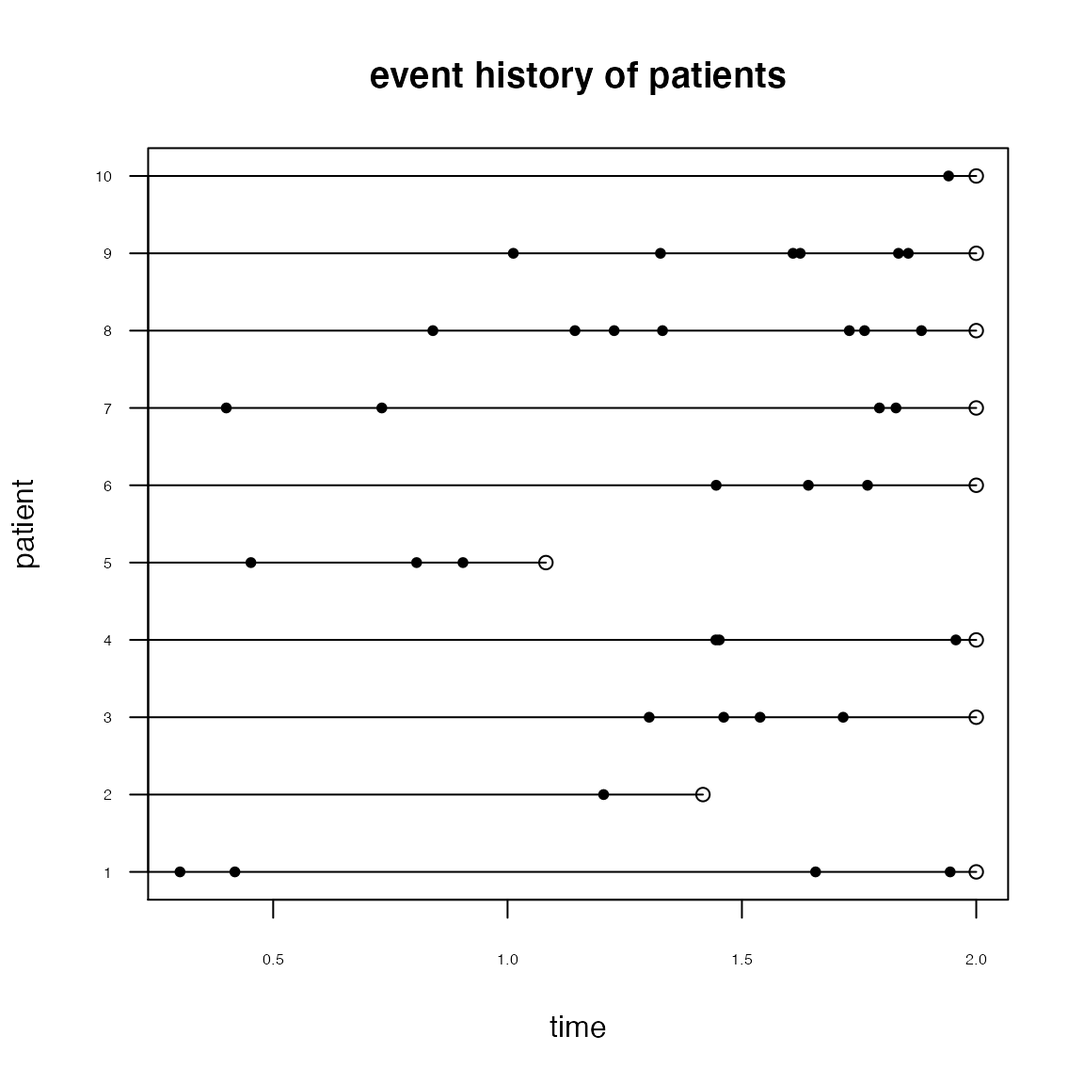
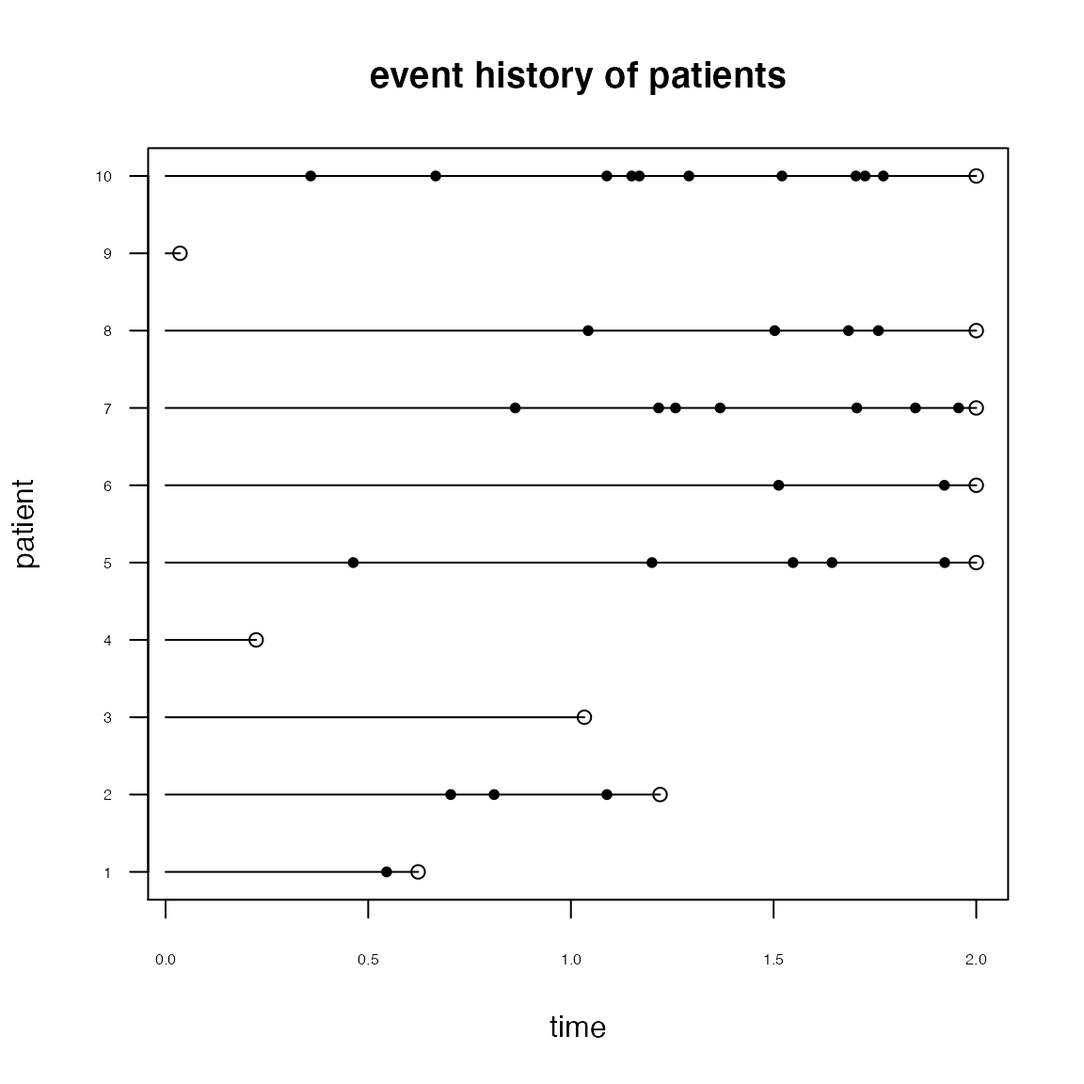
Built site for simrec: 1.0.0@5e44895

diff --git a/articles/simrec-vignette.html b/articles/simrec-vignette.html
@@ -233,19 +233,19 @@
                   <span class="va">dist.z</span>, <span class="va">par.z</span>, <span class="va">dist.rec</span>, <span class="va">par.rec</span>, <span class="va">pfree</span>, <span class="va">dfree</span><span class="op">)</span>
 <span class="fu"><a href="https://rdrr.io/r/base/print.html">print</a></span><span class="op">(</span><span class="va">simdata</span><span class="op">[</span><span class="fl">1</span><span class="op">:</span><span class="fl">10</span>,<span class="op">]</span><span class="op">)</span>
 <span class="fu">DT</span><span class="fu">::</span><span class="fu"><a href="https://rdrr.io/pkg/DT/man/datatable.html">datatable</a></span><span class="op">(</span><span class="va">simdata</span><span class="op">)</span></code></pre></div>
-<pre><code>##    id x.V1        x.V2         z     start      stop status fu
-## 1   1    0  0.74842285 0.5863817 0.0000000 0.8828565      1  2
-## 2   1    0  0.74842285 0.5863817 0.9650482 1.3613327      1  2
-## 3   1    0  0.74842285 0.5863817 1.4435245 2.0000000      0  2
-## 4   2    1 -0.04384992 0.8634348 0.0000000 1.2985454      1  2
-## 5   2    1 -0.04384992 0.8634348 1.3807372 1.4275642      1  2
-## 6   2    1 -0.04384992 0.8634348 1.5097560 1.7161208      1  2
-## 7   2    1 -0.04384992 0.8634348 1.7983126 2.0000000      0  2
-## 8   3    1  0.51347909 0.7954771 0.0000000 0.4849580      1  2
-## 9   3    1  0.51347909 0.7954771 0.5671498 1.5245771      1  2
-## 10  3    1  0.51347909 0.7954771 1.5245771 1.7126943      1  2</code></pre>
-<div id="htmlwidget-0798048e3afd38820c92" style="width:100%;height:auto;" class="datatables html-widget"></div>
-<script type="application/json" data-for="htmlwidget-0798048e3afd38820c92">{"x":{"filter":"none","data":[["1","2","3","4","5","6","7","8","9","10","11","12","13","15","16","17","18","19","20","21","22","23","24","25","26","27","28","29","30","31","32","33","34","36","37","38","39","40","41","42","43","44"],[1,1,1,2,2,2,2,3,3,3,3,4,4,5,5,5,5,5,5,5,6,6,7,7,7,7,7,8,8,8,8,8,8,9,9,9,9,9,9,10,10,10],[0,0,0,1,1,1,1,1,1,1,1,0,0,1,1,1,1,1,1,1,1,1,1,1,1,1,1,0,0,0,0,0,0,0,0,0,0,0,0,0,0,0],[0.748422845364538,0.748422845364538,0.748422845364538,-0.0438499182516304,-0.0438499182516304,-0.0438499182516304,-0.0438499182516304,0.513479090585374,0.513479090585374,0.513479090585374,0.513479090585374,-2.01222294312478,-2.01222294312478,0.278823336366371,0.278823336366371,0.278823336366371,0.278823336366371,0.278823336366371,0.278823336366371,0.278823336366371,-2.89230406049168,-2.89230406049168,0.820272813130286,0.820272813130286,0.820272813130286,0.820272813130286,0.820272813130286,-0.107051595138831,-0.107051595138831,-0.107051595138831,-0.107051595138831,-0.107051595138831,-0.107051595138831,0.816287521554371,0.816287521554371,0.816287521554371,0.816287521554371,0.816287521554371,0.816287521554371,0.962011556940449,0.962011556940449,0.962011556940449],[0.586381735099886,0.586381735099886,0.586381735099886,0.863434781475425,0.863434781475425,0.863434781475425,0.863434781475425,0.795477087077362,0.795477087077362,0.795477087077362,0.795477087077362,0.705356700959472,0.705356700959472,0.818148383232865,0.818148383232865,0.818148383232865,0.818148383232865,0.818148383232865,0.818148383232865,0.818148383232865,1.47252465963425,1.47252465963425,0.641657587457564,0.641657587457564,0.641657587457564,0.641657587457564,0.641657587457564,1.7902514791294,1.7902514791294,1.7902514791294,1.7902514791294,1.7902514791294,1.7902514791294,1.06465953497814,1.06465953497814,1.06465953497814,1.06465953497814,1.06465953497814,1.06465953497814,0.742863274269857,0.742863274269857,0.742863274269857],[0,0.965048248560268,1.44352452494387,0,1.3807371955991,1.50975599921375,1.79831258214225,0,0.567149769092909,1.524577110273,1.71269430789185,0,1.80425370669066,0,0.623721185924269,0.946716737220665,1.41498422919811,1.51402784124812,1.7845287388363,1.88418645000797,0,1.98765797411435,0,0.741885171181253,1.231263117613,1.36141722352325,1.86522065575899,0,0.0883149323957386,0.844631576642324,1.25253972272403,1.29578393081974,1.7582769708412,0,0.5269988301126,0.745251799488734,1.73555869223245,1.78806320551913,1.89876479554919,0,0.388267822494712,0.614225154632202],[0.88285646773835,1.36133274412195,2,1.29854541477719,1.42756421839183,1.71612080132033,2,0.484957988270991,1.524577110273,1.71269430789185,2,1.72206192586875,1.99368387981719,0.623721185924269,0.946716737220665,1.41498422919811,1.4318360604262,1.7845287388363,1.88418645000797,2,1.90546619329243,2,0.659693390359335,1.231263117613,1.36141722352325,1.78302887493707,2,0.0883149323957386,0.762439795820406,1.25253972272403,1.29578393081974,1.67608519001929,1.95193246752682,0.444807049290682,0.745251799488734,1.73555869223245,1.78806320551913,1.81657301472727,2,0.388267822494712,0.532033373810284,1.92654158387075],[1,1,0,1,1,1,0,1,1,1,0,1,1,1,1,1,1,1,1,0,1,0,1,1,1,1,0,1,1,1,1,1,1,1,1,1,1,1,0,1,1,1],[2,2,2,2,2,2,2,2,2,2,2,2,2,2,2,2,2,2,2,2,2,2,2,2,2,2,2,2,2,2,2,2,2,2,2,2,2,2,2,2,2,2]],"container":"<table class=\"display\">\n  <thead>\n    <tr>\n      <th> <\/th>\n      <th>id<\/th>\n      <th>x.V1<\/th>\n      <th>x.V2<\/th>\n      <th>z<\/th>\n      <th>start<\/th>\n      <th>stop<\/th>\n      <th>status<\/th>\n      <th>fu<\/th>\n    <\/tr>\n  <\/thead>\n<\/table>","options":{"columnDefs":[{"className":"dt-right","targets":[1,2,3,4,5,6,7,8]},{"orderable":false,"targets":0}],"order":[],"autoWidth":false,"orderClasses":false}},"evals":[],"jsHooks":[]}</script>
+<pre><code>##    id x.V1       x.V2         z     start      stop status       fu
+## 1   1    1  0.8511818 0.8547160 0.0000000 0.1579638      1 1.320757
+## 2   1    1  0.8511818 0.8547160 0.1579638 1.3207570      0 1.320757
+## 3   2    0 -2.2047470 1.6750799 0.0000000 1.0162442      1 2.000000
+## 4   2    0 -2.2047470 1.6750799 1.0984360 1.2847479      1 2.000000
+## 5   2    0 -2.2047470 1.6750799 1.3669396 1.5081206      1 2.000000
+## 6   2    0 -2.2047470 1.6750799 1.5081206 1.5222892      1 2.000000
+## 7   2    0 -2.2047470 1.6750799 1.5222892 1.5731542      1 2.000000
+## 8   2    0 -2.2047470 1.6750799 1.5731542 2.0000000      0 2.000000
+## 9   3    1  1.9747318 0.8257877 0.0000000 0.3669272      1 2.000000
+## 10  3    1  1.9747318 0.8257877 0.3669272 0.5140114      1 2.000000</code></pre>
+<div id="htmlwidget-eaa7853907c06c50fe55" style="width:100%;height:auto;" class="datatables html-widget"></div>
+<script type="application/json" data-for="htmlwidget-eaa7853907c06c50fe55">{"x":{"filter":"none","data":[["1","2","3","4","5","6","7","8","9","10","11","12","13","14","15","16","17","18","19","20","21","22","23","24","25","26","27","28","29","30","31","32","33","35","36","37","38","39","40","41","42","43","44","45","46","47","48","49","50","51","52","53","54","55","56","57","58","59","60","61"],[1,1,2,2,2,2,2,2,3,3,3,3,3,3,3,3,3,3,4,4,4,5,5,5,5,5,6,6,6,6,6,6,6,7,7,8,8,8,8,8,8,8,8,8,8,9,9,9,9,9,9,10,10,10,10,10,10,10,10,10],[1,1,0,0,0,0,0,0,1,1,1,1,1,1,1,1,1,1,0,0,0,0,0,0,0,0,0,0,0,0,0,0,0,0,0,1,1,1,1,1,1,1,1,1,1,0,0,0,0,0,0,0,0,0,0,0,0,0,0,0],[0.851181772620767,0.851181772620767,-2.20474697955854,-2.20474697955854,-2.20474697955854,-2.20474697955854,-2.20474697955854,-2.20474697955854,1.97473176134755,1.97473176134755,1.97473176134755,1.97473176134755,1.97473176134755,1.97473176134755,1.97473176134755,1.97473176134755,1.97473176134755,1.97473176134755,1.31237168481631,1.31237168481631,1.31237168481631,2.28457465921573,2.28457465921573,2.28457465921573,2.28457465921573,2.28457465921573,1.03329255983817,1.03329255983817,1.03329255983817,1.03329255983817,1.03329255983817,1.03329255983817,1.03329255983817,-0.442716303545345,-0.442716303545345,-1.87566169719697,-1.87566169719697,-1.87566169719697,-1.87566169719697,-1.87566169719697,-1.87566169719697,-1.87566169719697,-1.87566169719697,-1.87566169719697,-1.87566169719697,-0.340451602250275,-0.340451602250275,-0.340451602250275,-0.340451602250275,-0.340451602250275,-0.340451602250275,-0.476374090701937,-0.476374090701937,-0.476374090701937,-0.476374090701937,-0.476374090701937,-0.476374090701937,-0.476374090701937,-0.476374090701937,-0.476374090701937],[0.85471602331093,0.85471602331093,1.67507989864245,1.67507989864245,1.67507989864245,1.67507989864245,1.67507989864245,1.67507989864245,0.82578765733876,0.82578765733876,0.82578765733876,0.82578765733876,0.82578765733876,0.82578765733876,0.82578765733876,0.82578765733876,0.82578765733876,0.82578765733876,0.400950499250903,0.400950499250903,0.400950499250903,0.625616100511938,0.625616100511938,0.625616100511938,0.625616100511938,0.625616100511938,1.59027074067922,1.59027074067922,1.59027074067922,1.59027074067922,1.59027074067922,1.59027074067922,1.59027074067922,0.668787273699187,0.668787273699187,0.885449250506474,0.885449250506474,0.885449250506474,0.885449250506474,0.885449250506474,0.885449250506474,0.885449250506474,0.885449250506474,0.885449250506474,0.885449250506474,1.12489635815117,1.12489635815117,1.12489635815117,1.12489635815117,1.12489635815117,1.12489635815117,1.92654255869311,1.92654255869311,1.92654255869311,1.92654255869311,1.92654255869311,1.92654255869311,1.92654255869311,1.92654255869311,1.92654255869311],[0,0.157963776785269,0,1.09843596343986,1.36693963187766,1.50812056794535,1.52228921490105,1.57315422372866,0,0.366927247395232,0.596203167238677,0.762069537991531,1.09215128214783,1.43689976212693,1.56117684739283,1.56882434490839,1.69799536735489,1.83597822378726,0,0.705079041723032,1.45208204521861,0,1.21398149171373,1.37912063563003,1.73660030241888,1.80572677752705,0,0.974667502297942,1.3375612229915,1.45532714436083,1.54951491656822,1.77493421162108,1.77508444061788,0,1.25343016523665,0,0.615495831241205,0.766159744840325,0.878102383638971,0.997728073148899,1.09346965755036,1.63909470606363,1.7389477351329,1.85333612276303,1.96526222266209,0,0.536955841561227,1.377417757015,1.46313562661049,1.6722352791958,1.90306743485239,0,0.213152811754293,0.348383545126121,0.482816387949634,0.576025979537138,1.00569832057564,1.11572385941272,1.699565848588,1.9296538097149],[0.157963776785269,1.32075695414096,1.01624418261795,1.28474785105574,1.50812056794535,1.52228921490105,1.57315422372866,2,0.366927247395232,0.514011386416759,0.679877757169614,1.09215128214783,1.35470798130502,1.56117684739283,1.56882434490839,1.61580358653297,1.83597822378726,2,0.705079041723032,1.3698902643967,2,1.13178971089182,1.37912063563003,1.65440852159696,1.80572677752705,2,0.892475721476024,1.3375612229915,1.45532714436083,1.4673231357463,1.77493421162108,1.77508444061788,1.9213800569264,1.17123838441473,2,0.615495831241205,0.683967964018407,0.795910602817053,0.997728073148899,1.09346965755036,1.55690292524172,1.7389477351329,1.85333612276303,1.96526222266209,2,0.45476406073931,1.29522597619308,1.46313562661049,1.59004349837388,1.90306743485239,2,0.213152811754293,0.266191764304203,0.400624607127716,0.576025979537138,0.923506539753718,1.0335320785908,1.699565848588,1.9296538097149,2],[1,0,1,1,1,1,1,0,1,1,1,1,1,1,1,1,1,0,1,1,0,1,1,1,1,0,1,1,1,1,1,1,1,1,0,1,1,1,1,1,1,1,1,1,0,1,1,1,1,1,0,1,1,1,1,1,1,1,1,0],[1.32075695414096,1.32075695414096,2,2,2,2,2,2,2,2,2,2,2,2,2,2,2,2,2,2,2,2,2,2,2,2,2,2,2,2,2,2,2,2,2,2,2,2,2,2,2,2,2,2,2,2,2,2,2,2,2,2,2,2,2,2,2,2,2,2]],"container":"<table class=\"display\">\n  <thead>\n    <tr>\n      <th> <\/th>\n      <th>id<\/th>\n      <th>x.V1<\/th>\n      <th>x.V2<\/th>\n      <th>z<\/th>\n      <th>start<\/th>\n      <th>stop<\/th>\n      <th>status<\/th>\n      <th>fu<\/th>\n    <\/tr>\n  <\/thead>\n<\/table>","options":{"columnDefs":[{"className":"dt-right","targets":[1,2,3,4,5,6,7,8]},{"orderable":false,"targets":0}],"order":[],"autoWidth":false,"orderClasses":false}},"evals":[],"jsHooks":[]}</script>
 </div>
 </div>
 <div id="the-simreccomp-function" class="section level1">
@@ -387,32 +387,32 @@
 <span class="fu"><a href="https://rdrr.io/r/base/print.html">print</a></span><span class="op">(</span><span class="va">simdata2</span><span class="op">[</span><span class="fl">1</span><span class="op">:</span><span class="fl">10</span>, <span class="op">]</span><span class="op">)</span>
 <span class="fu">DT</span><span class="fu">::</span><span class="fu"><a href="https://rdrr.io/pkg/DT/man/datatable.html">datatable</a></span><span class="op">(</span><span class="va">simdata1</span><span class="op">)</span>
 <span class="fu">DT</span><span class="fu">::</span><span class="fu"><a href="https://rdrr.io/pkg/DT/man/datatable.html">datatable</a></span><span class="op">(</span><span class="va">simdata2</span><span class="op">)</span></code></pre></div>
-<pre><code>##    id x.V1       x.V2        zr        zc     start      stop status       fu
-## 1   1    1 -1.6676921 0.6920026 0.8318670 0.0000000 0.1132795      1 1.157896
-## 2   1    1 -1.6676921 0.6920026 0.8318670 0.1132795 0.5397039      1 1.157896
-## 3   1    1 -1.6676921 0.6920026 0.8318670 0.6218956 1.1578958      2 1.157896
-## 6   2    1 -0.3845407 0.9199459 0.9591381 0.0000000 0.4164970      2 0.416497
-## 11  3    0  0.2579137 0.9138277 0.9559434 0.0000000 0.8034349      1 1.980067
-## 12  3    0  0.2579137 0.9138277 0.9559434 0.8856267 1.0015509      1 1.980067
-## 13  3    0  0.2579137 0.9138277 0.9559434 1.0015509 1.5072548      1 1.980067
-## 14  3    0  0.2579137 0.9138277 0.9559434 1.5072548 1.6424955      1 1.980067
-## 15  3    0  0.2579137 0.9138277 0.9559434 1.6424955 1.9800671      2 1.980067
-## 16  4    1  0.6926236 0.9223413 0.9603860 0.0000000 0.1186870      2 0.118687
-##    id x.V1     x.V2       zr        zc    start      stop status fu
-## 1   1    1 1.279775 1.924914 0.4350285 0.000000 0.9721076      1  2
-## 2   1    1 1.279775 1.924914 0.4350285 1.054299 1.1062774      1  2
-## 3   1    1 1.279775 1.924914 0.4350285 1.106277 1.1856564      1  2
-## 4   1    1 1.279775 1.924914 0.4350285 1.185656 1.1865838      1  2
-## 5   1    1 1.279775 1.924914 0.4350285 1.268776 1.3825700      1  2
-## 6   1    1 1.279775 1.924914 0.4350285 1.464762 1.5124689      1  2
-## 7   1    1 1.279775 1.924914 0.4350285 1.594661 1.6681417      1  2
-## 8   1    1 1.279775 1.924914 0.4350285 1.750334 1.7598348      1  2
-## 9   1    1 1.279775 1.924914 0.4350285 1.842027 1.8769461      1  2
-## 10  1    1 1.279775 1.924914 0.4350285 1.959138 2.0000000      0  2</code></pre>
+<pre><code>##    id x.V1       x.V2        zr        zc     start      stop status        fu
+## 1   1    1  0.6387201 1.2461054 1.1162909 0.0000000 0.2642979      1 0.7215520
+## 2   1    1  0.6387201 1.2461054 1.1162909 0.2642979 0.4449954      1 0.7215520
+## 3   1    1  0.6387201 1.2461054 1.1162909 0.4449954 0.7215520      2 0.7215520
+## 11  2    0  1.7933185 2.0667836 1.4376313 0.0000000 0.5027894      1 1.0156405
+## 12  2    0  1.7933185 2.0667836 1.4376313 0.5027894 0.6176114      1 1.0156405
+## 13  2    0  1.7933185 2.0667836 1.4376313 0.6998032 0.9876252      1 1.0156405
+## 14  2    0  1.7933185 2.0667836 1.4376313 0.9876252 1.0156405      2 1.0156405
+## 21  3    1 -0.8299416 0.4744950 0.6888360 0.0000000 0.5746880      2 0.5746880
+## 24  4    1  0.6036702 0.4989453 0.7063606 0.0000000 0.7208756      2 0.7208756
+## 28  5    1  1.1247398 1.3337400 1.1548766 0.0000000 0.2387729      2 0.2387729
+##    id x.V1        x.V2        zr        zc     start      stop status        fu
+## 1   1    0 -0.76099124 1.4900374 0.8431291 0.0000000 1.5040401      1 1.5244274
+## 3   2    0  0.28241649 1.4791927 0.6250178 0.0000000 0.4385967      1 0.5747593
+## 4   2    0  0.28241649 1.4791927 0.6250178 0.5207885 0.5747593      0 0.5747593
+## 5   3    0  0.71506936 1.3105703 1.4277393 0.0000000 0.3095506      2 0.3095506
+## 10  4    0 -1.26562613 0.4317120 1.1365250 0.0000000 1.6431674      2 1.6431674
+## 12  5    0  0.02377552 2.0919858 0.3303551 0.0000000 1.0772384      1 1.3382149
+## 13  5    0  0.02377552 2.0919858 0.3303551 1.0772384 1.3382149      2 1.3382149
+## 18  6    1 -0.11877887 0.8390710 1.4090997 0.0000000 0.2633842      2 0.2633842
+## 23  7    0 -0.33296385 0.8163828 1.4866549 0.0000000 0.4596688      2 0.4596688
+## 27  8    1 -0.02252132 0.9435561 1.2591909 0.0000000 0.4784640      2 0.4784640</code></pre>
 <p></p>
-<div id="htmlwidget-62759b0f096cf89aed21" style="width:100%;height:auto;" class="datatables html-widget"></div>
-<script type="application/json" data-for="htmlwidget-62759b0f096cf89aed21">{"x":{"filter":"none","data":[["1","2","3","6","11","12","13","14","15","16","25","26","27","28","30","31","32","33","34","37","43","45"],[1,1,1,2,3,3,3,3,3,4,5,5,5,6,7,7,7,7,7,8,9,10],[1,1,1,1,0,0,0,0,0,1,0,0,0,1,1,1,1,1,1,0,1,1],[-1.66769214415737,-1.66769214415737,-1.66769214415737,-0.384540651492986,0.257913696218783,0.257913696218783,0.257913696218783,0.257913696218783,0.257913696218783,0.692623646259785,-0.190952984442845,-0.190952984442845,-0.190952984442845,-0.456594389923356,-0.340867366087241,-0.340867366087241,-0.340867366087241,-0.340867366087241,-0.340867366087241,0.209726618069447,0.757469265215834,-1.0520843917614],[0.692002642140503,0.692002642140503,0.692002642140503,0.919945877604584,0.913827692002174,0.913827692002174,0.913827692002174,0.913827692002174,0.913827692002174,0.922341292227535,0.97097124359376,0.97097124359376,0.97097124359376,0.353434721634565,1.57767718942266,1.57767718942266,1.57767718942266,1.57767718942266,1.57767718942266,1.14607456223059,1.71574156839809,1.36097922162351],[0.831866961803691,0.831866961803691,0.831866961803691,0.959138090998676,0.95594335187927,0.95594335187927,0.95594335187927,0.95594335187927,0.95594335187927,0.960386012094895,0.985378731043937,0.985378731043937,0.985378731043937,0.594503760824576,1.25605620472281,1.25605620472281,1.25605620472281,1.25605620472281,1.25605620472281,1.07054872015738,1.30986318690086,1.16661014123121],[0,0.113279501361446,0.621895649200591,0,0,0.885626691337895,1.00155086867744,1.50725482867321,1.64249553047712,0,0,0.23517934163949,1.10056721921372,0,0,0.411371940893304,0.415582874667771,0.561430158649265,0.637295710823697,0,0,0],[0.113279501361446,0.539703868378673,1.1578957696262,0.416496951814637,0.803434910515977,1.00155086867744,1.50725482867321,1.64249553047712,1.98006712317888,0.118686962914311,0.152987560817572,1.10056721921372,1.12018927093595,0.472332903183997,0.329180160071386,0.415582874667771,0.479238377827348,0.637295710823697,0.987945805443139,0.454271623132489,0.305164051242173,0.71408065885869],[1,1,2,2,1,1,1,1,2,2,1,1,0,0,1,1,1,1,2,2,0,2],[1.1578957696262,1.1578957696262,1.1578957696262,0.416496951814637,1.98006712317888,1.98006712317888,1.98006712317888,1.98006712317888,1.98006712317888,0.118686962914311,1.12018927093595,1.12018927093595,1.12018927093595,0.472332903183997,0.987945805443139,0.987945805443139,0.987945805443139,0.987945805443139,0.987945805443139,0.454271623132489,0.305164051242173,0.71408065885869]],"container":"<table class=\"display\">\n  <thead>\n    <tr>\n      <th> <\/th>\n      <th>id<\/th>\n      <th>x.V1<\/th>\n      <th>x.V2<\/th>\n      <th>zr<\/th>\n      <th>zc<\/th>\n      <th>start<\/th>\n      <th>stop<\/th>\n      <th>status<\/th>\n      <th>fu<\/th>\n    <\/tr>\n  <\/thead>\n<\/table>","options":{"columnDefs":[{"className":"dt-right","targets":[1,2,3,4,5,6,7,8,9]},{"orderable":false,"targets":0}],"order":[],"autoWidth":false,"orderClasses":false}},"evals":[],"jsHooks":[]}</script><div id="htmlwidget-f204d1d13519ac800d5e" style="width:100%;height:auto;" class="datatables html-widget"></div>
-<script type="application/json" data-for="htmlwidget-f204d1d13519ac800d5e">{"x":{"filter":"none","data":[["1","2","3","4","5","6","7","8","9","10","11","13","17","20","24","25","27","28","37","38","39","40","43","45","46"],[1,1,1,1,1,1,1,1,1,1,2,3,4,5,6,6,7,7,8,8,8,8,9,10,10],[1,1,1,1,1,1,1,1,1,1,1,1,0,1,0,0,1,1,1,1,1,1,0,1,1],[1.27977466089194,1.27977466089194,1.27977466089194,1.27977466089194,1.27977466089194,1.27977466089194,1.27977466089194,1.27977466089194,1.27977466089194,1.27977466089194,-1.55160023341401,1.14698151573463,0.174424874363792,-1.45148496722529,0.250047673726281,0.250047673726281,-0.0832819503305641,-0.0832819503305641,-1.68278769727015,-1.68278769727015,-1.68278769727015,-1.68278769727015,-1.13146970040281,0.774696969150648,0.774696969150648],[1.92491412763348,1.92491412763348,1.92491412763348,1.92491412763348,1.92491412763348,1.92491412763348,1.92491412763348,1.92491412763348,1.92491412763348,1.92491412763348,0.439214957923236,0.605687092787851,0.593002771075719,0.640246092760674,1.12112146407668,1.12112146407668,1.56401928064311,1.56401928064311,0.602557643277145,0.602557643277145,0.602557643277145,0.602557643277145,0.341387114178444,2.54543391976323,2.54543391976323],[0.435028479641059,0.435028479641059,0.435028479641059,0.435028479641059,0.435028479641059,0.435028479641059,0.435028479641059,0.435028479641059,0.435028479641059,0.435028479641059,1.15553204387508,1.94828716778994,0.914484635227785,1.22968533864914,1.03621537294557,1.03621537294557,0.868948356887001,0.868948356887001,0.722880585622833,0.722880585622833,0.722880585622833,0.722880585622833,1.91186996730317,1.15094181999236,1.15094181999236],[0,1.05429937184946,1.10627744479647,1.18565637366285,1.26877553984407,1.46476176998466,1.59466070570943,1.75033352702166,1.84202662135831,1.95913792540071,0,0,0,0,0,0.938098551601389,0,0.695996027182129,0,0.83469269317055,1.00231911044295,1.04714982888812,0,0,0.661280045134308],[0.972107591027541,1.10627744479647,1.18565637366285,1.18658375902216,1.38256998916274,1.51246892488751,1.66814174619974,1.75983484053639,1.87694614457879,2,0.825731846646336,0.307475046658316,1.07537230290641,0.620193258111172,0.938098551601389,1.31484061915826,0.613804246360212,0.748764551664669,0.83469269317055,1.00231911044295,1.04714982888812,1.35695622163625,0.704482308647428,0.57908826431239,0.838063175322115],[1,1,1,1,1,1,1,1,1,0,2,2,2,2,1,2,1,2,1,1,1,2,2,1,2],[2,2,2,2,2,2,2,2,2,2,0.825731846646336,0.307475046658316,1.07537230290641,0.620193258111172,1.31484061915826,1.31484061915826,0.748764551664669,0.748764551664669,1.35695622163625,1.35695622163625,1.35695622163625,1.35695622163625,0.704482308647428,0.838063175322115,0.838063175322115]],"container":"<table class=\"display\">\n  <thead>\n    <tr>\n      <th> <\/th>\n      <th>id<\/th>\n      <th>x.V1<\/th>\n      <th>x.V2<\/th>\n      <th>zr<\/th>\n      <th>zc<\/th>\n      <th>start<\/th>\n      <th>stop<\/th>\n      <th>status<\/th>\n      <th>fu<\/th>\n    <\/tr>\n  <\/thead>\n<\/table>","options":{"columnDefs":[{"className":"dt-right","targets":[1,2,3,4,5,6,7,8,9]},{"orderable":false,"targets":0}],"order":[],"autoWidth":false,"orderClasses":false}},"evals":[],"jsHooks":[]}</script>
+<div id="htmlwidget-0bf35c7ab1295dca46ea" style="width:100%;height:auto;" class="datatables html-widget"></div>
+<script type="application/json" data-for="htmlwidget-0bf35c7ab1295dca46ea">{"x":{"filter":"none","data":[["1","2","3","11","12","13","14","21","24","28","40","46","48","50","59"],[1,1,1,2,2,2,2,3,4,5,6,7,8,9,10],[1,1,1,0,0,0,0,1,1,1,1,1,1,1,0],[0.638720059397485,0.638720059397485,0.638720059397485,1.793318460524,1.793318460524,1.793318460524,1.793318460524,-0.829941557161769,0.60367022151662,1.12473978042494,0.383492461511952,-0.940456327694682,0.13233943276454,0.506017933177795,-0.695934171359554],[1.24610538037386,1.24610538037386,1.24610538037386,2.06678362181584,2.06678362181584,2.06678362181584,2.06678362181584,0.474494975091435,0.498945252198326,1.33373998359866,1.18210930208069,2.12947428743969,0.565019811210736,1.19382676223982,1.47131565163333],[1.11629090311346,1.11629090311346,1.11629090311346,1.43763125376984,1.43763125376984,1.43763125376984,1.43763125376984,0.688835956590127,0.70636056812249,1.15487660968549,1.08724850061092,1.45927183466265,0.751677997024481,1.09262379721468,1.21297800954235],[0,0.264297948680868,0.444995394623296,0,0.50278939496489,0.699803217718884,0.987625233146303,0,0,0,0,0,0,0,0],[0.264297948680868,0.444995394623296,0.721552022412203,0.50278939496489,0.617611436896966,0.987625233146303,1.01564049751262,0.574688034175623,0.720875606401858,0.238772924356578,0.277802953761668,0.234731154050678,0.92931860499084,0.871074210346782,0.443106812909742],[1,1,2,1,1,1,2,2,2,2,2,0,0,2,2],[0.721552022412203,0.721552022412203,0.721552022412203,1.01564049751262,1.01564049751262,1.01564049751262,1.01564049751262,0.574688034175623,0.720875606401858,0.238772924356578,0.277802953761668,0.234731154050678,0.92931860499084,0.871074210346782,0.443106812909742]],"container":"<table class=\"display\">\n  <thead>\n    <tr>\n      <th> <\/th>\n      <th>id<\/th>\n      <th>x.V1<\/th>\n      <th>x.V2<\/th>\n      <th>zr<\/th>\n      <th>zc<\/th>\n      <th>start<\/th>\n      <th>stop<\/th>\n      <th>status<\/th>\n      <th>fu<\/th>\n    <\/tr>\n  <\/thead>\n<\/table>","options":{"columnDefs":[{"className":"dt-right","targets":[1,2,3,4,5,6,7,8,9]},{"orderable":false,"targets":0}],"order":[],"autoWidth":false,"orderClasses":false}},"evals":[],"jsHooks":[]}</script><div id="htmlwidget-8b1c0efbaa330a841a92" style="width:100%;height:auto;" class="datatables html-widget"></div>
+<script type="application/json" data-for="htmlwidget-8b1c0efbaa330a841a92">{"x":{"filter":"none","data":[["1","3","4","5","10","12","13","18","23","27","35","37"],[1,2,2,3,4,5,5,6,7,8,9,10],[0,0,0,0,0,0,0,1,0,1,0,0],[-0.760991240785766,0.282416486571492,0.282416486571492,0.715069362815116,-1.26562612791473,0.0237755207601407,0.0237755207601407,-0.118778866028526,-0.332963850891366,-0.022521322283126,-0.590744617785394,0.695167261759382],[1.4900373642976,1.47919265162677,1.47919265162677,1.3105702601545,0.431712003448318,2.09198577839329,2.09198577839329,0.839071026677444,0.81638278059589,0.943556062467967,0.502495246995722,0.849292579043937],[0.843129092598126,0.625017802393486,0.625017802393486,1.42773932478855,1.13652503581042,0.330355092242563,0.330355092242563,1.4090997038062,1.48665491239363,1.25919093715279,1.72404810427473,0.953876657250266],[0,0,0.520788450272723,0,0,0,1.0772384090382,0,0,0,0,0],[1.50404006342541,0.438596669450806,0.574759296141565,0.309550623775434,1.64316738511818,1.0772384090382,1.3382148973391,0.263384223150451,0.459668831665675,0.478463977074145,0.620890724852386,1.15332026224599],[1,1,0,2,2,1,2,2,2,2,2,2],[1.52442737779971,0.574759296141565,0.574759296141565,0.309550623775434,1.64316738511818,1.3382148973391,1.3382148973391,0.263384223150451,0.459668831665675,0.478463977074145,0.620890724852386,1.15332026224599]],"container":"<table class=\"display\">\n  <thead>\n    <tr>\n      <th> <\/th>\n      <th>id<\/th>\n      <th>x.V1<\/th>\n      <th>x.V2<\/th>\n      <th>zr<\/th>\n      <th>zc<\/th>\n      <th>start<\/th>\n      <th>stop<\/th>\n      <th>status<\/th>\n      <th>fu<\/th>\n    <\/tr>\n  <\/thead>\n<\/table>","options":{"columnDefs":[{"className":"dt-right","targets":[1,2,3,4,5,6,7,8,9]},{"orderable":false,"targets":0}],"order":[],"autoWidth":false,"orderClasses":false}},"evals":[],"jsHooks":[]}</script>
 </div>
 </div>
 <div id="the-simrecint-function" class="section level1">
@@ -484,16 +484,26 @@
 <span class="va">simdataint</span> <span class="op">&lt;-</span> <span class="fu"><a href="../reference/simrecint.html">simrecint</a></span><span class="op">(</span><span class="va">simdata</span>, N <span class="op">=</span> <span class="va">N</span>, tR <span class="op">=</span> <span class="fl">2</span>, tI <span class="op">=</span> <span class="fl">1</span><span class="op">)</span>
 <span class="fu"><a href="https://rdrr.io/r/base/print.html">print</a></span><span class="op">(</span><span class="va">simdataint</span><span class="op">)</span>  <span class="co"># only run for small N!</span>
 <span class="fu">DT</span><span class="fu">::</span><span class="fu"><a href="https://rdrr.io/pkg/DT/man/datatable.html">datatable</a></span><span class="op">(</span><span class="va">simdataint</span><span class="op">)</span></code></pre></div>
-<pre><code>##    id x.V1        x.V2         z start      stop status fu   rectime interimtime
-## 21  6    0 -0.17900193 0.8447851     0 0.1680318      0  2 0.8319682           1
-## 30  8    0 -0.06122542 1.5792362     0 0.4587369      0  2 0.5412631           1
-## 45 10    1  0.62606706 0.3563541     0 0.8678413      0  2 0.1321587           1
-##    stop_study
-## 21   2.277063
-## 30   1.381970
-## 45   2.073115</code></pre>
-<div id="htmlwidget-776f9de8f049d96243c8" style="width:100%;height:auto;" class="datatables html-widget"></div>
-<script type="application/json" data-for="htmlwidget-776f9de8f049d96243c8">{"x":{"filter":"none","data":[["21","30","45"],[6,8,10],[0,0,1],[-0.179001928745232,-0.0612254185564265,0.626067058408209],[0.844785124619952,1.57923617524335,0.356354064047332],[0,0,0],[0.168031779583544,0.458736944478005,0.867841344326735],[0,0,0],[2,2,2],[0.831968220416456,0.541263055521995,0.132158655673265],[1,1,1],[2.27706264876934,1.38196957588181,2.07311549409658]],"container":"<table class=\"display\">\n  <thead>\n    <tr>\n      <th> <\/th>\n      <th>id<\/th>\n      <th>x.V1<\/th>\n      <th>x.V2<\/th>\n      <th>z<\/th>\n      <th>start<\/th>\n      <th>stop<\/th>\n      <th>status<\/th>\n      <th>fu<\/th>\n      <th>rectime<\/th>\n      <th>interimtime<\/th>\n      <th>stop_study<\/th>\n    <\/tr>\n  <\/thead>\n<\/table>","options":{"columnDefs":[{"className":"dt-right","targets":[1,2,3,4,5,6,7,8,9,10,11]},{"orderable":false,"targets":0}],"order":[],"autoWidth":false,"orderClasses":false}},"evals":[],"jsHooks":[]}</script>
+<pre><code>##    id x.V1        x.V2         z     start       stop status         fu   rectime
+## 7   3    0 -0.77728756 0.3577544 0.0000000 0.82038470      0 1.03323818 0.1796153
+## 11  5    1  0.05178914 0.5020507 0.0000000 0.06419276      0 2.00000000 0.9358072
+## 20  7    0  1.46065438 1.5230469 0.0000000 0.14279492      0 2.00000000 0.8572051
+## 28  8    1  2.17718559 0.3292516 0.0000000 0.72197715      0 2.00000000 0.2780228
+## 33  9    1 -1.03571517 0.5622777 0.0000000 0.03561183      0 0.03561183 0.6023674
+## 35 10    1  0.16378646 1.4797465 0.0000000 0.35799183      1 2.00000000 0.1319626
+## 36 10    1  0.16378646 1.4797465 0.3579918 0.66636947      1 2.00000000 0.1319626
+## 37 10    1  0.16378646 1.4797465 0.6663695 0.86803739      0 2.00000000 0.1319626
+##    interimtime stop_study
+## 7            1  1.2128535
+## 11           1  1.3987966
+## 20           1  1.7198071
+## 28           1  1.3205744
+## 33           1  0.6379793
+## 35           1  0.4899544
+## 36           1  0.7983321
+## 37           1  1.2205518</code></pre>
+<div id="htmlwidget-a1cb3a8a69e279ef8edb" style="width:100%;height:auto;" class="datatables html-widget"></div>
+<script type="application/json" data-for="htmlwidget-a1cb3a8a69e279ef8edb">{"x":{"filter":"none","data":[["7","11","20","28","33","35","36","37"],[3,5,7,8,9,10,10,10],[0,1,0,1,1,1,1,1],[-0.777287556048147,0.0517891437369379,1.46065438315023,2.17718558577355,-1.03571516507223,0.163786462182264,0.163786462182264,0.163786462182264],[0.357754350266942,0.502050668041178,1.52304688812354,0.329251569253118,0.562277689450179,1.47974652212884,1.47974652212884,1.47974652212884],[0,0,0,0,0,0,0.357991825777385,0.666369474374458],[0.820384704042226,0.0641927625983953,0.142794915474951,0.721977150533348,0.0356118250638247,0.357991825777385,0.666369474374458,0.868037385866046],[0,0,0,0,0,1,1,0],[1.03323817998171,2,2,2,0.0356118250638247,2,2,2],[0.179615295957774,0.935807237401605,0.857205084525049,0.278022849466652,0.602367436047643,0.131962614133954,0.131962614133954,0.131962614133954],[1,1,1,1,1,1,1,1],[1.21285347593948,1.39879659240684,1.71980709378615,1.32057441418754,0.637979261111468,0.489954439911339,0.798332088508412,1.22055182327753]],"container":"<table class=\"display\">\n  <thead>\n    <tr>\n      <th> <\/th>\n      <th>id<\/th>\n      <th>x.V1<\/th>\n      <th>x.V2<\/th>\n      <th>z<\/th>\n      <th>start<\/th>\n      <th>stop<\/th>\n      <th>status<\/th>\n      <th>fu<\/th>\n      <th>rectime<\/th>\n      <th>interimtime<\/th>\n      <th>stop_study<\/th>\n    <\/tr>\n  <\/thead>\n<\/table>","options":{"columnDefs":[{"className":"dt-right","targets":[1,2,3,4,5,6,7,8,9,10,11]},{"orderable":false,"targets":0}],"order":[],"autoWidth":false,"orderClasses":false}},"evals":[],"jsHooks":[]}</script>
 </div>
 </div>
 <div id="plotting-the-data" class="section level1">
